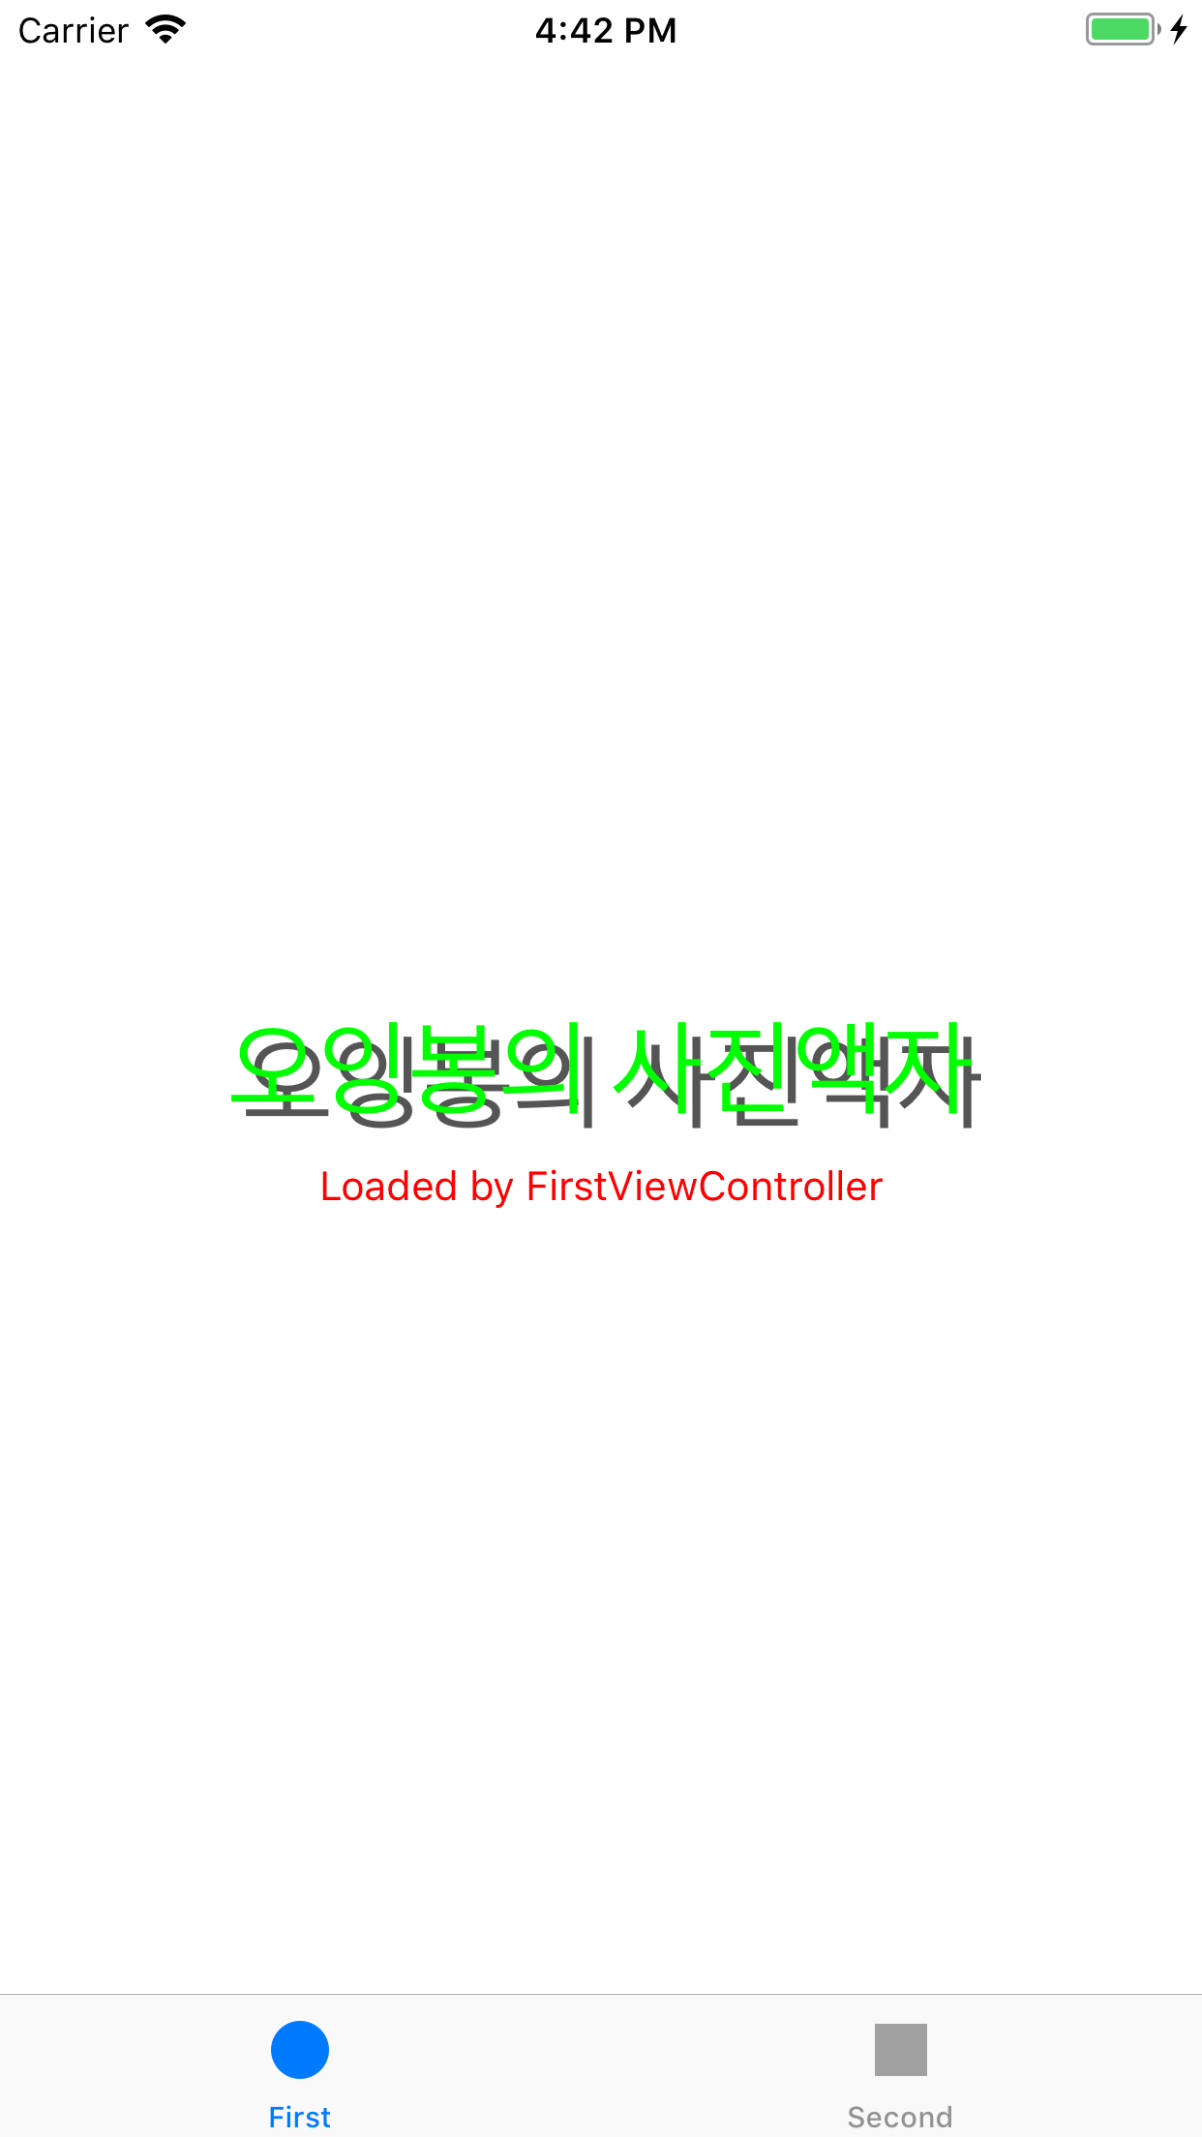
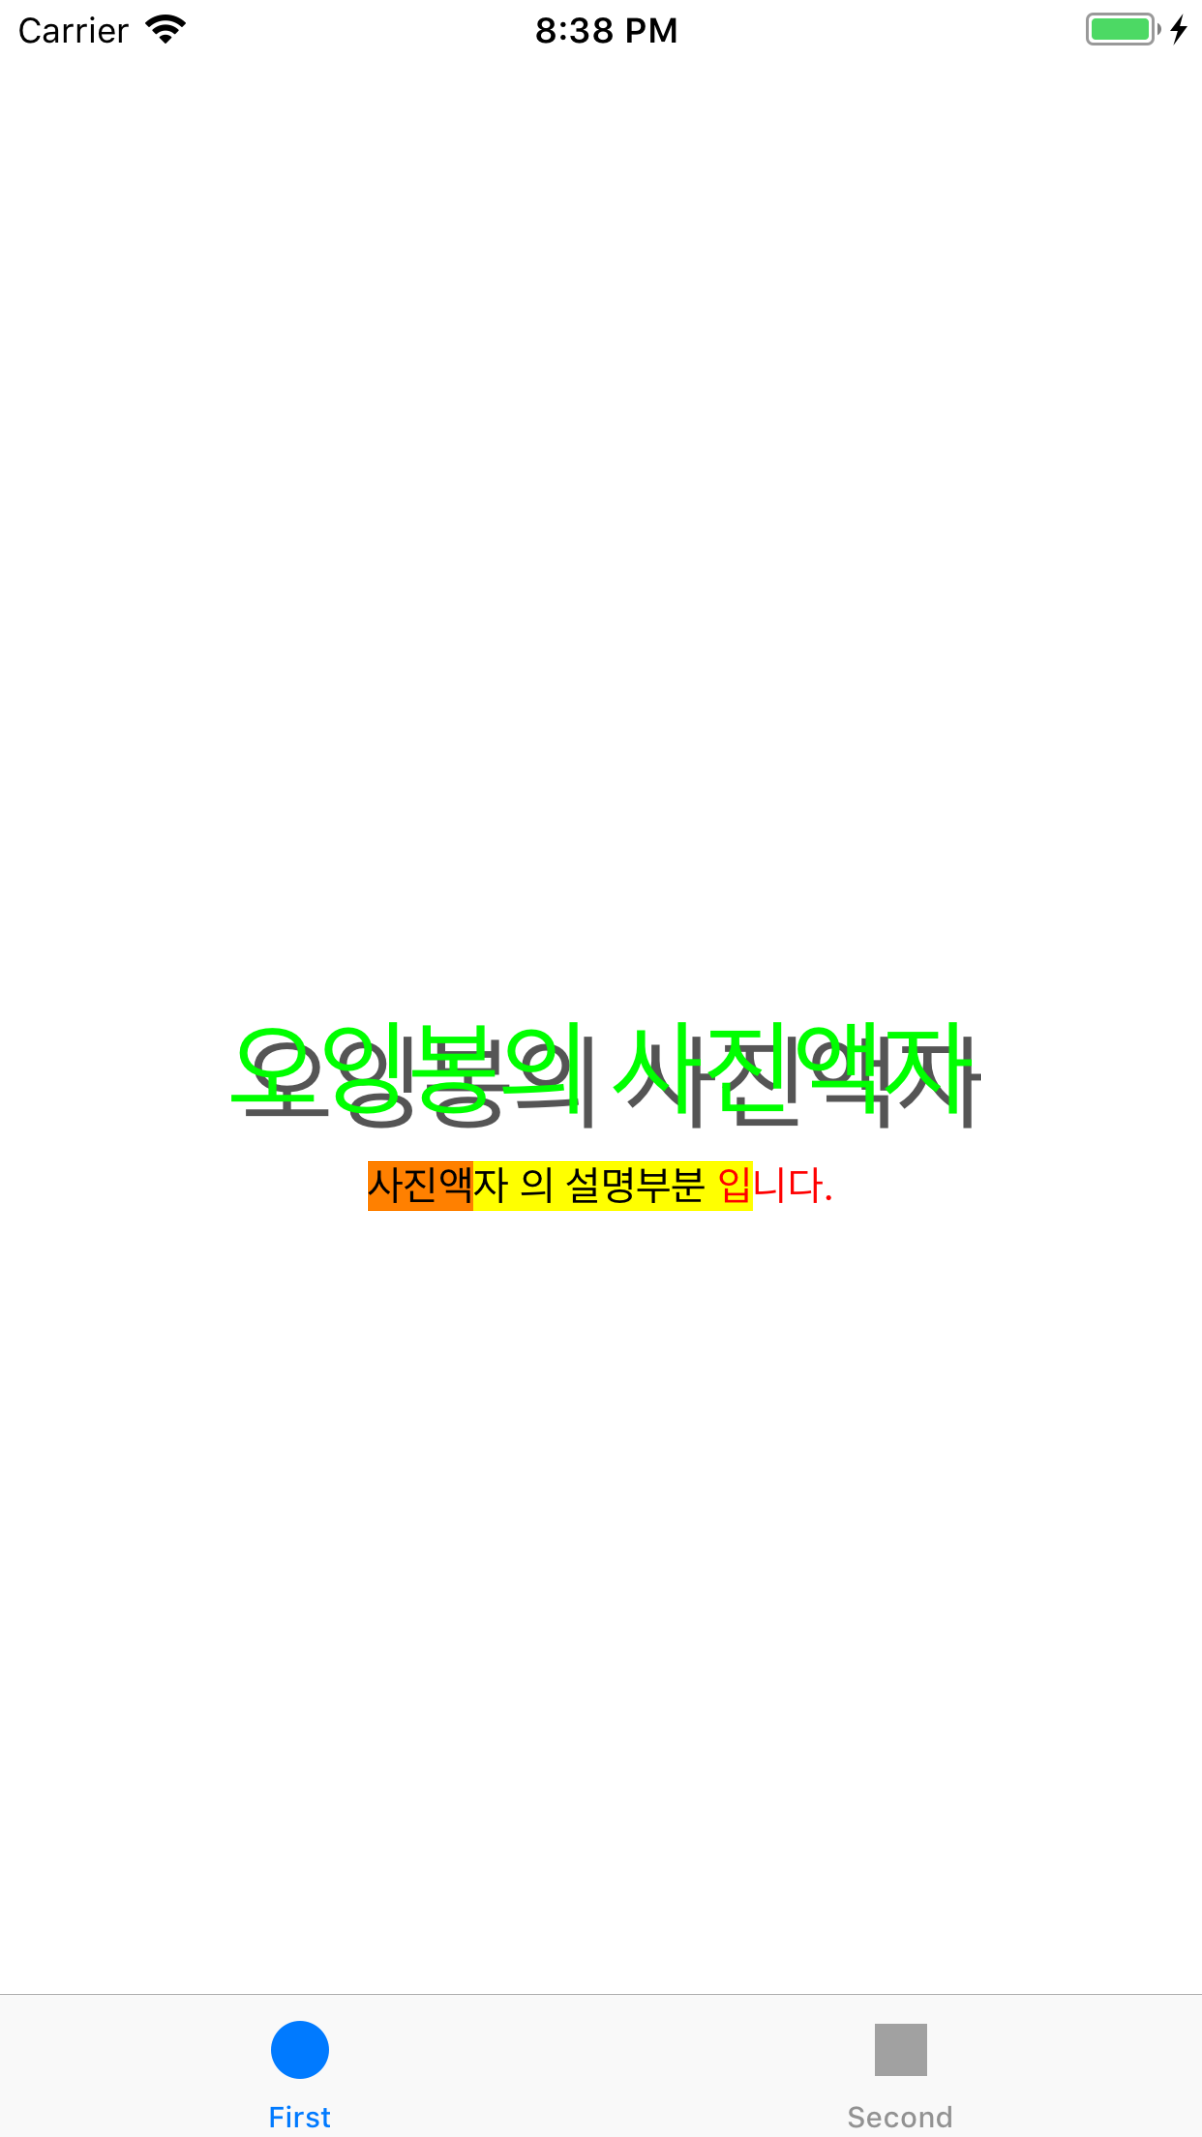
Update Step2 with simple ARC description & about UILabel method

Changed region(s): [[0.277, 0.525, 0.708, 0.5868], [0.4309, 0.0, 0.5541, 0.0309]]

diff --git a/PhotoFrame/PhotoFrame/FirstViewController.swift b/PhotoFrame/PhotoFrame/FirstViewController.swift
@@ -23,9 +23,22 @@ class FirstViewController: UIViewController {
         self.firstLabel.shadowColor = UIColor.darkGray
         self.firstLabel.shadowOffset = CGSize.init(width: 5, height: 5)
         
-        self.firstDescription.textColor = UIColor.red
-        self.firstDescription.lineBreakMode = NSLineBreakMode.byClipping
+        // AttributeString 사용방법
+        let descAttribute = [NSAttributedStringKey.backgroundColor : UIColor.orange]
+        let descString = NSMutableAttributedString(string: "사진액자", attributes: descAttribute)
+        let attrString = NSAttributedString(string: " 의 설명부분 입니다.")
+        descString.append(attrString)
         
+        // Using addAttribute
+        var descRange = NSRange(location: 11, length: 5)
+        descString.addAttribute(NSAttributedStringKey.foregroundColor, value: UIColor.red, range: descRange)
+        
+        // Using addAttributes
+        descRange = NSRange(location: 3, length: 10)
+        let anotherAttribute = [NSAttributedStringKey.backgroundColor: UIColor.yellow]
+        descString.addAttributes(anotherAttribute, range: descRange)
+        
+        self.firstDescription.attributedText = descString
     }
 
     override func didReceiveMemoryWarning() {

diff --git a/README.md b/README.md
@@ -21,7 +21,99 @@
 
 ## Step2 - IBOutlet
 
-### UIOutlet
+### UILabel
+
+> 하나 이상의 읽기 전용 텍스트 행을 표시하는 보기 , 의도된 목적을 설명하기 위해 컨트롤과 함께 사용되는 경우가 많습니다.
+
+ - 개요
+ : 레이블 모양을 구성할 수 있으며, 레이블 내의 문자열도 사용자가 지정할 수 있습니다.  
+
+ - 국제화
+ : 레이블은 많은 사용자와 통신할 수 있는 중요한 컨트롤 중 하나이므로 국제화가 중요합니다. 따라서 국제화 구현도 가능합니다. ( 아래 URL 참조 )
+[About Internationalization and Localization](https://developer.apple.com/library/archive/documentation/MacOSX/Conceptual/BPInternational/Introduction/Introduction.html#//apple_ref/doc/uid/10000171i)
+
+#### Topics
+
+---
+##### Accessing the Text Attributes (텍스트 속성 엑세스)
+| 이름 | 내용 |
+| --- | :---: |
+| `var text: String?` | 레이블에 표시되는 텍스트 |
+| `var attributedText: NSAttributedString?` | 레이블로 표시되는 현재 스타일 텍스트 |
+| `var font: UIFont!` | 텍스트를 표시하는데 사용되는 글꼴 |
+| `var textColor: UIColor!` | 텍스트 색상 |
+| `var textAlignment: NSTextAlignment` | 텍스트를 정렬하는데 사용하는 기술 |
+| `var lineBreakMode: NSLineBreakMode` | 레이블의 텍스트를 줄바꿈하고 자르는데 사용하는 기술 |
+| `var isEnabled: Bool` | 레이블의 텍스트를 그릴 때 사용할 활성화 상태 |
+---
+##### Sizing the Label's Text (레이블 텍스트 크기 조정)
+| 이름 | 내용 |
+| --- | :---: |
+| `var adjustsFontSizeToFitWidth: Bool` | 제목 문자열을 레이블의 경계 사각형에 맞추기 위해 글꼴 크기를 줄여야 하는지 여부를 나타내는 부울 값 |
+| `var allowDefaultTighteningForTruncation: Bool` | 레이블을 잘라내기 전에 텍스트를 고정하는지 여부를 나타내는 부울 값 |
+| `var baselineAdjustment: UIBaselineAdjustment` | 레이블에 맞게 텍스트를 축소해야 할 때 텍스트 기준선이 조정되는 방식을 제어 |
+| `var minimumScaleFactor: CGFloat` | 라벨의 텍스트에 지원되는 최소 축척 비율 |
+| `var numberOfLines: Int` | 텍스트 렌더링에 사용할 최대 줄 수 |
+---
+##### Managing Highlight Values (하이라이트 값 관리)
+| 이름 | 내용 |
+| --- | :---: |
+| `var highlightedTextColor: UIColor?` | 레이블의 텍스트에 적용된 강조 표시 색상 |
+| `var isHighlighted: Bool` | 강조 표시로 레이블을 그릴지 여부를 나타내는 부울 값 |
+---
+##### Drawing a Shadow (그림자 그리기)
+| 이름 | 내용 |
+| --- | :---: |
+| `var shadowColor: UIColor?` | 텍스트의 그림자 색상 |
+| `var shadowOffset: CGSize` | 텍스트의 그림자 오프셋(점 단위로 측정) |
+---
+##### Drawing and Positioning Overrides (중첩 그리기 및 배치)
+| 이름 | 내용 |
+| --- | :---: |
+| `func textRect(forBounds: CGRect, limitedToNumberOfLines: Int) -> CGRect` | 레이블의 텍스트에 대한 직사각형을 반환 |
+| `var drawText(in: CGRect)` | 지정된 사각형에 레이블의 텍스트(또는 그림자)를 그립니다. |
+---
+##### Getting the Layout Constraints (레이아웃 제약 조건 가져오기)
+| 이름 | 내용 |
+| --- | :---: |
+| `var preferredMaxLayoutWidth: CGFloat` | 다중 행 레이블의 기본 최대 너비(점) |
+---
+##### Setting and Getting Attributes (특성 설정 및 가져오기)
+| 이름 | 내용 |
+| --- | :---: |
+| `var isUserInteractionEnabled: Bool` | 사용자 이벤트를 무시하고 이벤트 대기열에서 제거할지 여부를 결정하는 부울 값 |
+---
+##### Related Types (관련유형)
+| 이름 | 내용 |
+| --- | :---: |
+| `enum NSTextAlignment` | 이 상수는 텍스트 정렬을 지정 |
+---
+##### Instance Properties (인스턴스 특성) - Beta
+| 이름 | 내용 |
+| --- | :---: |
+| `var enablesMarqueeWhenAncestorFocused: Bool` | - |
+---
+
+#### NSMutableAttributedString & NSAttributedString 차이
+: NSMutableAttributedString 은 변경 가능한 문자열 객체로써 append 등 가능 , NSAttributedString 는 변경 못함
+
+#### 순환참조
+ - strong : `Defalut` 로써 아무것도 명시하지 않으면 설정되며 `강한참조`라고도 합니다.
+ - weak : `약한참조` 이며 옵셔널입니다.
+ - unowned : `weak` 와 동일한 `약한참조` 이지만 옵셔널이 아닙니다.
+ ```
+클래스의 메모리와 관련된 용어들이며 Swift 는 자동으로 메모리 관리를 해줍니다. 따라서, ARC(Automatic Reference Counting) 라는 
+용어 아래 많은 관련 용어들이 있지만 그 중 기본적으로 strong , weak , unowned 용어가 있습니다.
+레퍼런스 카운팅을 계산하여 메모리를 해제하는 여부를 결정하는데 사용되는 것들이며 strong 을 잘못쓰게 되면
+영원히 메모리상에서 지울 수 없는 인스턴스가 존재하게 되며 이를 보완하기 위해 weak 와 unowned 을 사용합니다.
+weak 는 옵셔널이기 때문에 참조하는 값이 없다면 nil 로 값이 설정되지만 unowned은 항상 값이 있다는 것을 전제로 하기 때문에 참조값이 없는 경우에는 
+크러시가 발생하게 될 것입니다.
+```
+#### 참고
+[fonts - How do I make an attributed string using Swift? - Stack Overflow](https://stackoverflow.com/questions/24666515/how-do-i-make-an-attributed-string-using-swift)
+
+
+
 
 ![Step2_1](CaptureImage/Step2_1.png)
 
